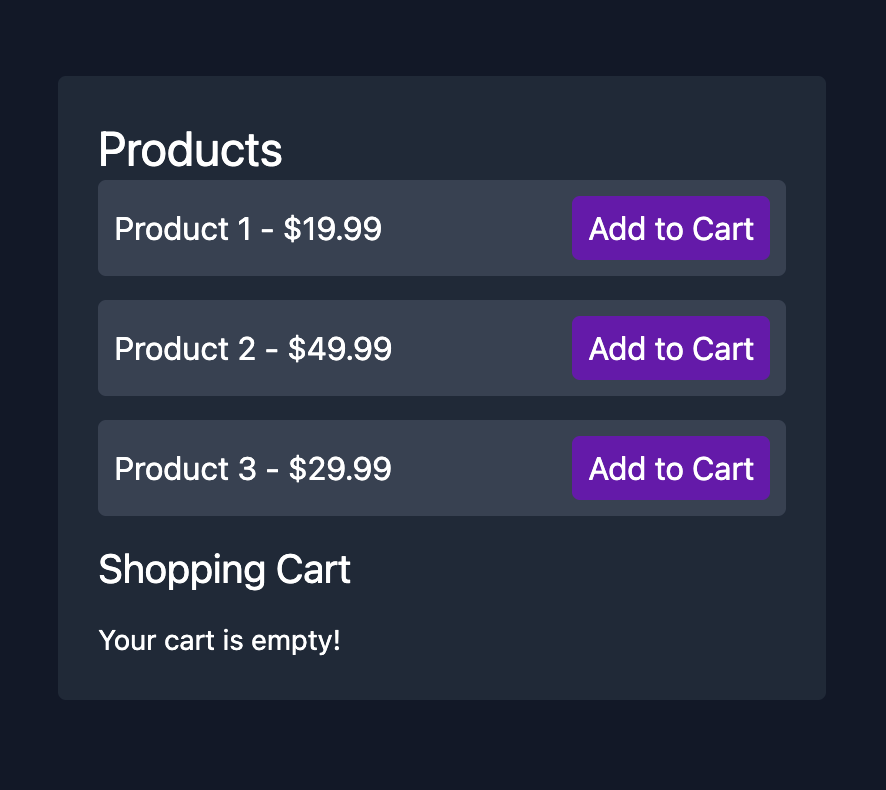
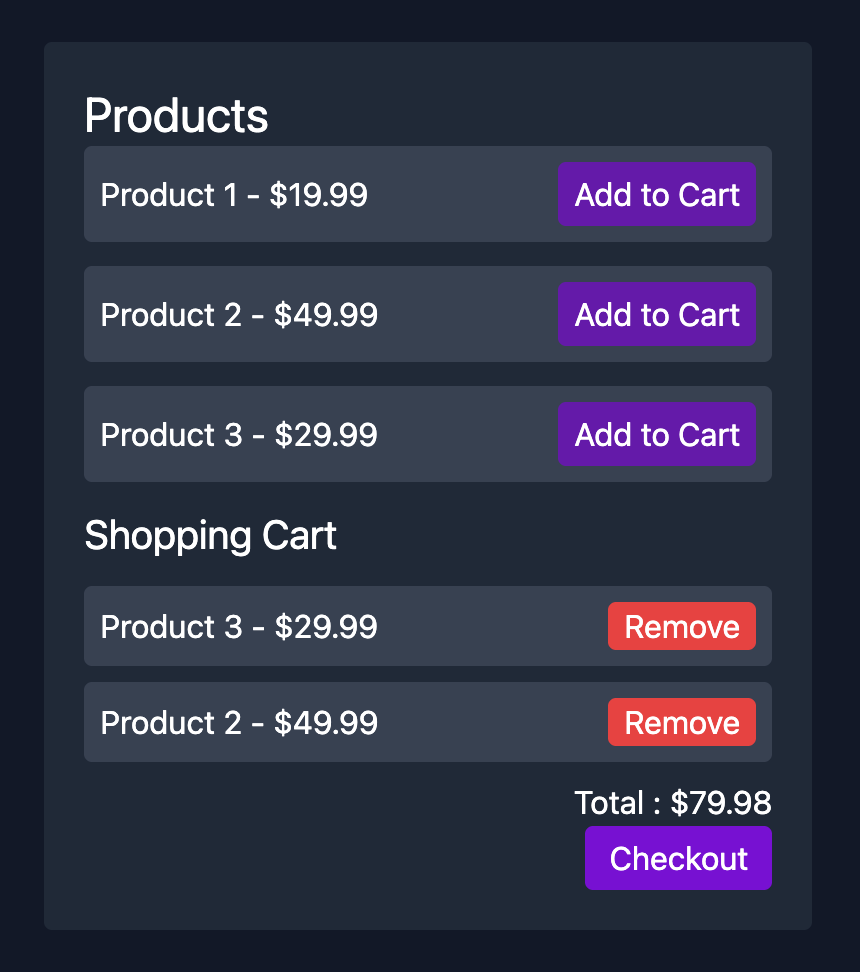
added remove feature

diff --git a/script.js b/script.js
@@ -5,7 +5,7 @@ document.addEventListener("DOMContentLoaded", () => {
     { id: 3, name: "Product 3", price: 29.99 },
   ];
 
-  let cart = [];
+  let cart = JSON.parse(localStorage.getItem("cart")) || [];
   const productList = document.getElementById("product-list");
   const cartItems = document.getElementById("cart-items");
   const emptyCartMessage = document.getElementById("empty-cart");
@@ -36,7 +36,6 @@ document.addEventListener("DOMContentLoaded", () => {
       const productId = parseInt(e.target.getAttribute("data-id"));
       const product = products.find((p) => p.id === productId);
       addToCart(product);
-      //   console.log(product);
     }
   });
 
@@ -46,6 +45,7 @@ document.addEventListener("DOMContentLoaded", () => {
   }
 
   function renderCart() {
+    localStorage.setItem("cart", JSON.stringify(cart));
     if (cart.length) {
       cartItems.innerText = "";
       const cartDiv = document.createElement("div");
@@ -53,17 +53,20 @@ document.addEventListener("DOMContentLoaded", () => {
       cartDiv.classList.add("flex");
       cartDiv.classList.add("flex-col");
       cartDiv.classList.add("text-white");
-      cart.forEach((item) => {
-        cartDiv.innerHTML += `
+
+      cart.forEach((item, index) => {
+        cartDiv.innerHTML += `<div class="flex justify-between bg-gray-700 items-center mb-2 p-2 rounded">
                 <span>${item.name} - $${item.price}</span>
-            `;
+                <button class="bg-red-500 hover:bg-red-700 px-2 rounded" id="remove-btn" data-index="${index}">Remove</button>
+            </div>`;
       });
       totalPriceValue = cart.reduce((sum, item) => (sum = sum + item.price), 0);
-      totalPrice.innerHTML = `$${totalPriceValue}`;
+      totalPrice.innerHTML = `$${totalPriceValue.toFixed(2)}`;
       cartItems.appendChild(cartDiv);
       emptyCartMessage.classList.add("hidden");
       cartTotalMessage.classList.remove("hidden");
     } else {
+      totalPriceValue = 0;
       emptyCartMessage.classList.remove("hidden");
       cartItems.innerHTML = `<p id="empty-cart" class="text-white text-sm mt-3">Your cart is empty!</p>`;
       totalPrice.innerHTML = `$${totalPriceValue}`;
@@ -73,8 +76,18 @@ document.addEventListener("DOMContentLoaded", () => {
 
   checkoutBtn.addEventListener("click", () => {
     alert("checkout successfull!");
+    cartTotalMessage.classList.add("hidden");
     totalPriceValue = 0;
     cart = [];
     renderCart();
   });
+
+  cartItems.addEventListener("click", (e) => {
+    if (e.target.tagName === "BUTTON" && e.target.dataset.index !== undefined) {
+      const index = parseInt(e.target.dataset.index);
+      cart.splice(index, 1);
+      renderCart();
+    }
+  });
+  renderCart();
 });

diff --git a/README.md b/README.md
@@ -5,9 +5,11 @@ A simple shopping cart web application built with HTML, JavaScript, and Tailwind
 ## Features
 
 - Displays a list of products with prices.
-- Allows users to add products to a shopping cart.
-- Shows the cart contents and total price.
-- Checkout button to clear the cart.
+- Add products to a shopping cart.
+- Cart contents and total price update automatically.
+- Remove individual items from the cart.
+- Cart state is saved in your browser (localStorage).
+- Checkout button clears the cart and resets the total.
 
 ## Getting Started
 
@@ -28,6 +30,7 @@ README.md       # Project documentation
 
 - Click "Add to Cart" to add a product.
 - The cart updates with selected items and total price.
+- Click "Remove" to delete an item from the cart.
 - Click "Checkout" to clear the cart.
 
 ## Customization
@@ -41,4 +44,4 @@ README.md       # Project documentation
 
 ---
 
-© 2025 Kapil
+© 2024 Kapil kumar
